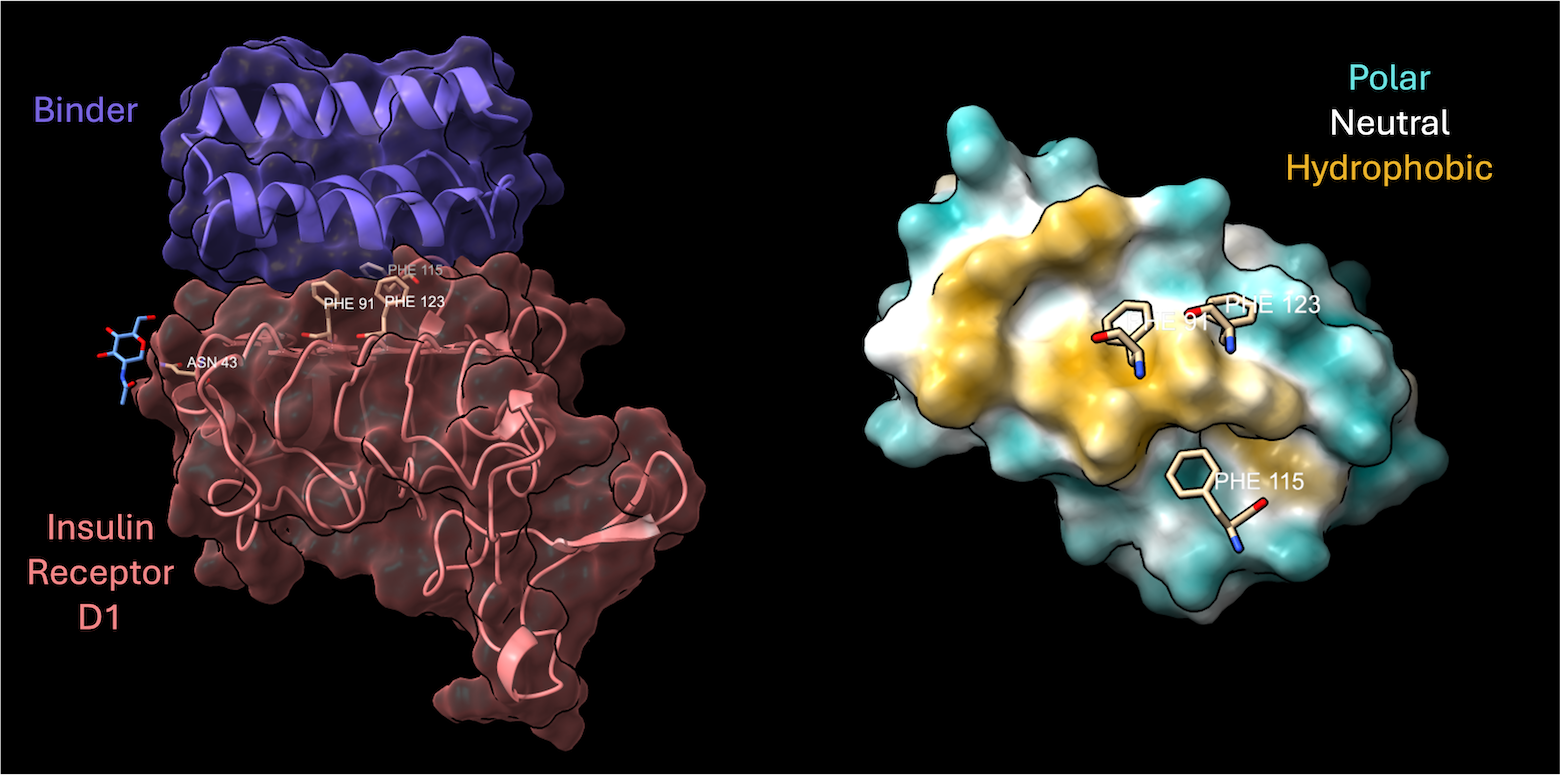
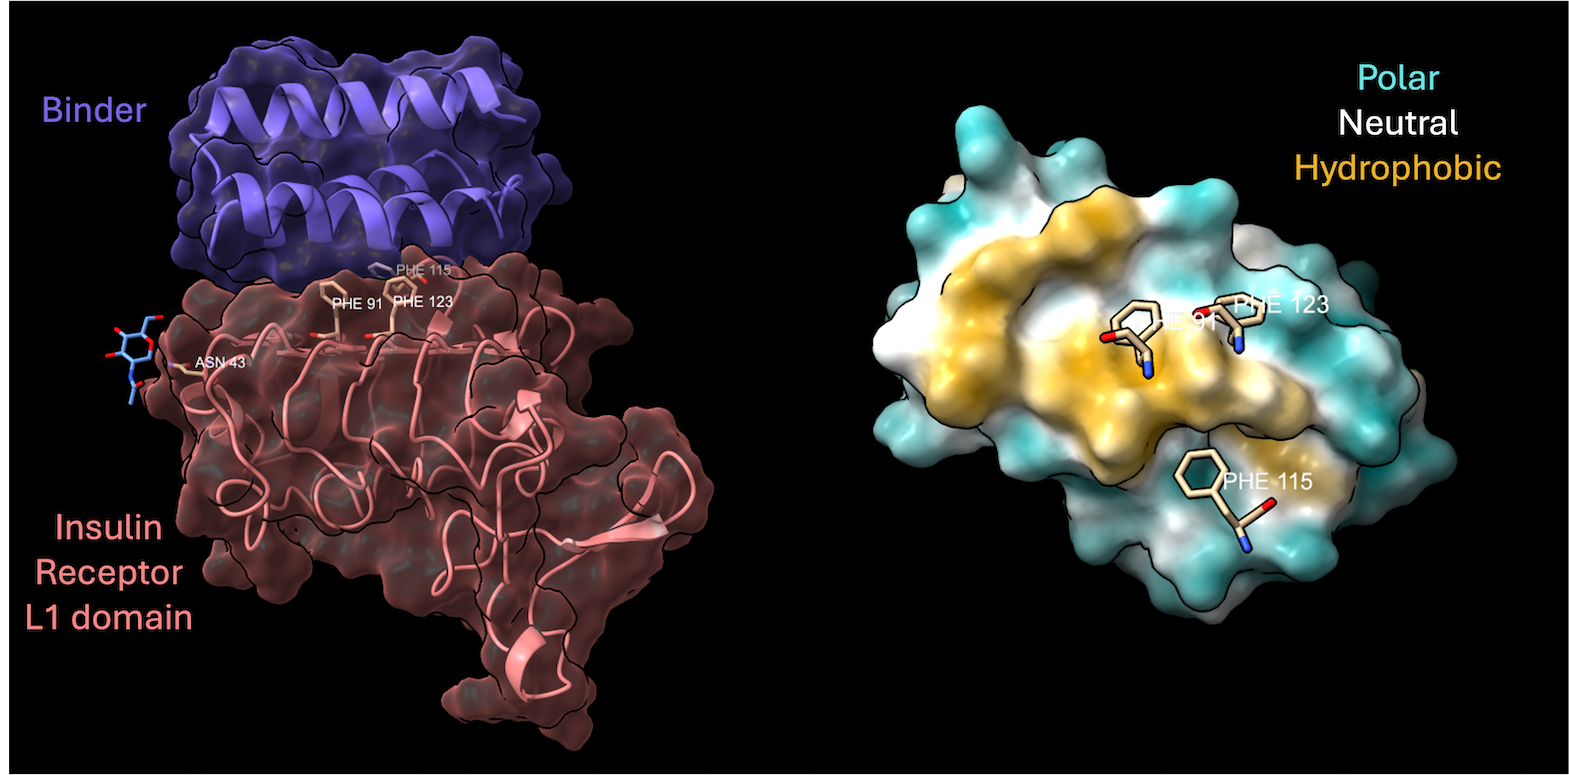
Tutorial fixes

diff --git a/tutorial/tutorial_binderdesign.md b/tutorial/tutorial_binderdesign.md
@@ -29,7 +29,9 @@ Before you begin design binders, you need to prepare a target protein structure.
 
 Binder design algorithms scale exponentially with the size of your input, so it is common practice to trim structures down to the domain(s) of interest. Overcropping, especially when it leaves incomplete folds with exposed inner residues can lead to issues with structure prediction so there is a balance.
 
-For this example, we will be working with a structure of the insulin receptor (PDB: 4ZXB) in ChimeraX, although you can also use PyMOL. This structure has some of the issues highlighted above: missing residues and glycosylation sites, with many domains to choose from across the 768 residues. We can design binders against any of these domains, avoiding glycans and patching missing areas as needed. For the purposes of this tutorial we are interested in the first domain (E1-190). 
+For this tutorial, we will be working with a structure of the insulin receptor (PDB: 4ZXB) in ChimeraX, although you can also use PyMOL. This structure has some of the issues highlighted above: missing residues and glycosylation sites, with many domains to choose from across the 768 residues. We can design binders against any of these domains, avoiding glycans and patching missing areas as needed. For the purposes of this tutorial we are interested in the first domain (E1-190). 
+
+<img src='tutorial_chimerax_target.png' width='400'>
 
 However, this crystal structure has missing residues in domain 1. ProteinDJ will interpret the input like this E1-162/E168-172/E177-190 and will not fill in missing residues, treating the small E168-172 fragment as an isolated segment rather than a continuous part of the domain. These chain breaks can distort contig/hotspot placement and confuse structure prediction, particularly for such a short fragment. As described earlier, we can use structure prediction to complete our target structures and the AlphaFoldDB entry on human insulin receptor (https://alphafold.ebi.ac.uk/entry/AF-P06213-2-F1) is a good match (0.44 Calpha RMSD), so we will use this file instead. Note that this prediction includes the signal peptide (1-27) that is cleaved during expression, so domain 1 is 28-217.
 
@@ -56,6 +58,7 @@ Actions -> Atoms/Bonds -> Delete
 Upload/copy this file to your ProteinDJ project directory
 
 <img src='tutorial_chimerax_select.png' width='700'>
+
 <img src='tutorial_chimerax_save.png' width='400'>
 
 ### Choosing hotspots <a name="hotspots"></a>
@@ -97,7 +100,7 @@ test {
 }
 ```
 
-There is a hierachy for Nextflow with commandline parameters overriding profile values and profile values overriding the default values in the nextflow.config. In the above example, num_designs normally defaults 8 so this profile reduces the number to 4.
+There is a hierachy for Nextflow with commandline parameters overriding profile values and profile values overriding the default values in the nextflow.config. In the above example, num_designs normally defaults to 16 so this profile reduces the number to 4.
 
 We can create our own profile for the insulin receptor design either by adding a profile to nextflow.config or creating a new config file e.g.
 
@@ -163,10 +166,10 @@ fold_3_seq_1_boltzpred | 3 | 1 | 2 | 5 | 7 | 11.73 | 0.88 | 5960 | 81 | 8902 | 4
 By default, all filters are null – all designs will ‘pass’. For production runs, we need to provide cutoff values for our designs to filter out low confidence predictions. There are some example values in the example_filters profile (see below) that have been used as cutoff for binder design campaigns it is worth noting that this does not guarantee binding. Some targets are harder, and we can make compromises on filtering values otherwise the project has to be abandoned. As outlined in 'Target Preparation section' the input structure may not reflect the true protein structure/conformation, and structure prediction programs can be biased towards particular folds/complexes. Nevertheless, using these metrics to filter out bad designs has been shown to improve success rates even though some binder design campaigns still fail. 
 
 Types of prediction filters:
-RMSD/Alignment – e.g. binder_bndaln, binder_tgtaln
-Overall confidence e.g. plddt, ptm
-Interface confidence e.g. pae_interaction, iptm
-Biophysical metrics e.g. secondary structures, buried surface area, hydrogen bonds etc.
+- RMSD/Alignment – e.g. binder_bndaln, binder_tgtaln
+- Overall confidence e.g. plddt, ptm
+- Interface confidence e.g. pae_interaction, iptm
+- Biophysical metrics e.g. secondary structures, buried surface area, hydrogen bonds etc.
 
 Aside from structure prediction filters, there are other aspects of the workflow you can modulate. RFdiffusion can sometimes generate 1 or 2 helix designs, rather than folded binder domains. These have a high failure rate downstream and unless you are intentially designing peptides, it saves time filtering them out before sequence design and structure prediction. BoltzGen/BindCraft are less prone to this. 
 
